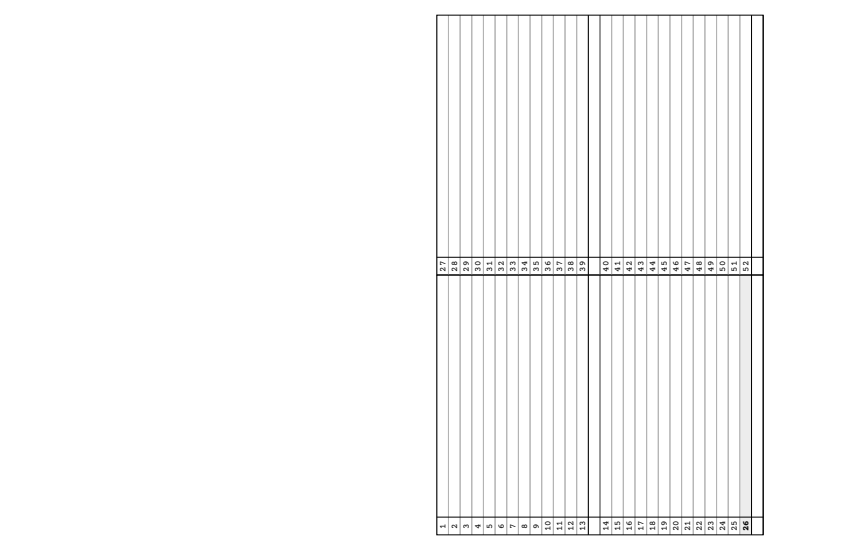
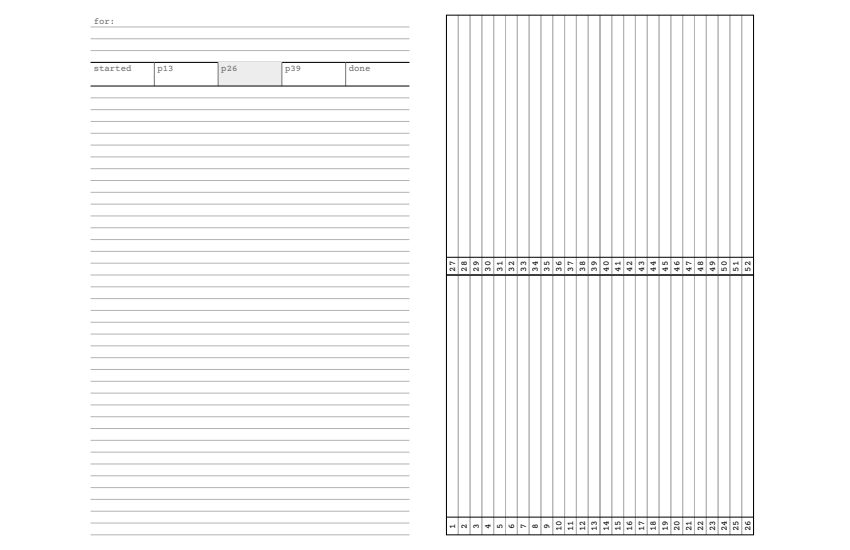
Plain books: book_purpose front cover, 3 mm index; all-caps headers, one header rule, gray idea labels
Claude-Session: https://claude.ai/code/session_01LdStaTTVFPMak8JKepHKkP

diff --git a/pocketjournal/indexpages.py b/pocketjournal/indexpages.py
@@ -3,40 +3,35 @@ with the book turned a quarter turn clockwise. Pages 1-26 are the lower column,
 27-52 the upper one; each page is a 3 mm strip with a narrow number zone at its
 start and open space after it for handwriting.
 
-    index        plain books: 26 pages per column plus a "goal post" strip
-                 after pages 13, 26, 39 and 52 (a date field)
+    index        plain books: 26 strips per column, a darker line at the
+                 quarter points (after pages 13, 26 and 39)
     page_index   monthly journal: 26 strips per column, each with a small gray
                  label saying what kind of page it is
 """
 from .draw import Draw
 from .page import PageBox, PageContext
 from .pagetypes import label_for, page_type
-from .yearpages import NUMBER_ZONE, _cap, _sideways_number
+from .yearpages import NUMBER_ZONE, _cap, _sideways_number, _text_base
 
 PAGES = 52
 PER_COLUMN = PAGES // 2
-GOAL_EVERY = 13              # a goal-post strip follows every 13th page
+QUARTER = PAGES // 4         # quarter points of the book: pages 13, 26, 39
 CENTER_PAGE = PAGES // 2     # the spread at the stitches
 LABEL_GRAY = 0.4
 
 
 def _column(d: Draw, s, left: float, pitch: float, y_a: float, height: float,
-            strips: list, labels: dict[int, str], mark_center: bool) -> None:
-    """One sideways column. `strips` holds a page number, or None for a goal
-    post; `labels` maps page numbers to their small gray label."""
+            pages: list, labels: dict[int, str], dark_after: frozenset = frozenset()) -> None:
+    """One sideways column: a 3 mm strip per page, with a small gray label in
+    its open space. The line after a page in `dark_after` is drawn darker."""
     y_b, open_y = y_a + height, y_a + NUMBER_ZONE
-    right = left + len(strips) * pitch
-    for k, page in enumerate(strips):
+    right = left + len(pages) * pitch
+    for k, page in enumerate(pages):
         x0, cx = left + k * pitch, left + (k + 0.5) * pitch
-        if page is None:                                     # goal post: a date field
-            for edge in (x0, x0 + pitch):
-                d.line(edge, y_a, edge, y_b, s.structure_weight)
-            continue
-        if mark_center and page == CENTER_PAGE:                # subtle mark: a faint tint
-            d.fill_rect(x0, y_a, pitch, height, s.tint_gray)
         d.line(x0, y_a, x0, y_b, s.rule_weight, s.rule_gray)
-        d.line(x0 + pitch, y_a, x0 + pitch, y_b, s.rule_weight, s.rule_gray)
-        _sideways_number(d, s, cx, y_a + NUMBER_ZONE / 2, str(page), bold=mark_center and page == CENTER_PAGE)
+        d.line(x0 + pitch, y_a, x0 + pitch, y_b, s.rule_weight,
+               s.separator_gray if page in dark_after else s.rule_gray)
+        _sideways_number(d, s, cx, y_a + NUMBER_ZONE / 2, str(page))
         if labels.get(page):
             d.text(cx + _cap(s.font_label) / 2, open_y + 1.5, labels[page],
                    s.font_label, gray=LABEL_GRAY, rotate=90)
@@ -44,25 +39,23 @@ def _column(d: Draw, s, left: float, pitch: float, y_a: float, height: float,
     d.rect(left, y_a, right - left, height, s.structure_weight)
 
 
+def _columns(d: Draw, box: PageBox, ctx: PageContext, labels: dict[int, str],
+             dark_after: frozenset = frozenset()) -> None:
+    """Both columns: 26 strips each at exactly one grid cell, centered."""
+    s, g = ctx.settings, box.grid_area()
+    pitch, height = g.cell, g.rows // 2 * g.cell
+    left = g.x0 + (g.x1 - g.x0 - PER_COLUMN * pitch) / 2
+    for c in range(2):
+        pages = list(range(c * PER_COLUMN + 1, (c + 1) * PER_COLUMN + 1))
+        _column(d, s, left, pitch, g.y0 + c * height, height, pages, labels, dark_after)
+
+
 @page_type("index")
 def index(d: Draw, box: PageBox, ctx: PageContext) -> None:
     """Plain books: a universal index (page number, topic) in two sideways
-    columns, with a date field after pages 13, 26, 39 and 52 for when that
-    point in the book was reached. Page 26, the center spread, is tinted.
-
-    The 28 strips per column share the content width, so the pitch is 2.96 mm:
-    as close to 3 mm as fits."""
-    s, g = ctx.settings, box.grid_area()
-    strips_per_column = PER_COLUMN + PER_COLUMN // GOAL_EVERY
-    pitch = (box.x1 - box.x0) / strips_per_column
-    height = g.rows // 2 * g.cell
-    for c in range(2):
-        strips = []
-        for page in range(c * PER_COLUMN + 1, (c + 1) * PER_COLUMN + 1):
-            strips.append(page)
-            if page % GOAL_EVERY == 0:
-                strips.append(None)
-        _column(d, s, box.x0, pitch, g.y0 + c * height, height, strips, {}, True)
+    columns of 26 strips at exactly 3 mm. The line after pages 13, 26 and 39 is
+    slightly darker so the quarter points of the book stay visible."""
+    _columns(d, box, ctx, {}, frozenset(range(QUARTER, PAGES, QUARTER)))
 
 
 @page_type("page_index")
@@ -74,8 +67,41 @@ def page_index(d: Draw, box: PageBox, ctx: PageContext) -> None:
         raise ValueError(f"the page index needs the book's {PAGES} pages")
     s, g = ctx.settings, box.grid_area()
     labels = {n: label_for(spec) for n, spec in enumerate(ctx.book_pages, 1)}
-    pitch, height = g.cell, g.rows // 2 * g.cell
-    left = g.x0 + (g.x1 - g.x0 - PER_COLUMN * pitch) / 2     # center the 26 strips
-    for c in range(2):
-        pages = list(range(c * PER_COLUMN + 1, (c + 1) * PER_COLUMN + 1))
-        _column(d, s, left, pitch, g.y0 + c * height, height, pages, labels, False)
+    _columns(d, box, ctx, labels)
+
+
+# Inside front cover of the plain books -----------------------------------------
+
+PURPOSE_LINES = 3            # writing lines under the "for:" label
+GOAL_POSTS = ("started", "p13", "p26", "p39", "done")   # dates; p26 is the center spread
+
+
+@page_type("book_purpose")
+def book_purpose(d: Draw, box: PageBox, ctx: PageContext) -> None:
+    """Plain books, inside front cover: what the book is for (a gray label and
+    a few writing lines), one compact row of date fields for the goal posts, and
+    light 3 mm lines for the rest. The p26 field is tinted: the center spread,
+    where the owner checks progress."""
+    s, g = ctx.settings, box.grid_area()
+    row = lambda n: g.y1 - n * g.cell
+
+    d.text(g.x0 + 0.8, _text_base(row(1)), "for:", s.font_label, gray=LABEL_GRAY)
+    top = 1 + PURPOSE_LINES                                  # rows used by the purpose block
+    for r in range(1, top + 1):
+        d.line(g.x0, row(r), g.x1, row(r), s.rule_weight, s.rule_gray)
+    d.line(g.x0, row(top), g.x1, row(top), s.structure_weight)
+
+    # goal posts: two rows, the label above a blank row for the date
+    fields_top, fields_bottom = row(top), row(top + 2)
+    w = (g.x1 - g.x0) / len(GOAL_POSTS)
+    for k, name in enumerate(GOAL_POSTS):
+        x0 = g.x0 + k * w
+        if name == "p26":
+            d.fill_rect(x0, fields_bottom, w, fields_top - fields_bottom, s.tint_gray)
+        if k:
+            d.line(x0, fields_bottom, x0, fields_top, s.rule_weight, s.separator_gray)
+        d.text(x0 + 0.8, _text_base(row(top + 1)), name, s.font_label, gray=LABEL_GRAY)
+    d.line(g.x0, fields_bottom, g.x1, fields_bottom, s.structure_weight)
+
+    for r in range(top + 3, g.rows + 1):
+        d.line(g.x0, row(r), g.x1, row(r), s.rule_weight, s.rule_gray)

diff --git a/tests/test_recipes.py b/tests/test_recipes.py
@@ -50,7 +50,7 @@ def test_shipped_recipes():
         book = build_book(load_recipe(name), S)
         assert len(book.pages) == 52
         assert book.page_numbers
-        assert book.cover[1].type == "index"
+        assert [p.type for p in book.cover] == ["book_purpose", "index"]
 
 
 def test_fill_after_fixed_pages():
@@ -190,18 +190,45 @@ def test_plain_index_layout(tmp_path, is_right):
     tol = 2
     assert ys.min() >= px(S.margin_top) - tol and ys.max() <= m.shape[0] - px(S.margin_bottom) + tol
     assert xs.min() >= px(box.x0) - tol and xs.max() <= px(box.x1) + tol
-    # 28 strips per column: count the vertical strip boundaries along a scan row
+    # 26 strips per column, exactly one grid cell wide: count the boundaries
+    g = box.grid_area()
     col = m[px(S.margin_top) + px(10)]                        # inside the upper column
     edges = np.count_nonzero(np.diff(col.astype(int)) == 1)
-    assert edges >= 29
+    assert edges >= 27
+    assert xs.max() - xs.min() <= px(26 * g.cell) + 6         # no wider than 26 cells
+
+
+def test_book_purpose_text_and_tint(tmp_path):
+    book = build_book(load_recipe("lined"), S)
+    build_folder(book, tmp_path / "out", S)
+    text = PdfReader(str(tmp_path / "out/cover.pdf")).pages[0].extract_text()
+    for word in ("for:", "started", "p13", "p26", "p39", "done"):
+        assert word in text
+
+
+@pytest.mark.parametrize("is_right", [True, False])
+def test_book_purpose_layout(tmp_path, is_right):
+    m = render(get_page_type("book_purpose"), is_right, tmp_path / "b.pdf")
+    box = PageBox(S, is_right)
+    ys, xs = np.where(m)
+    tol = 2
+    assert ys.min() >= px(S.margin_top) - tol and ys.max() <= m.shape[0] - px(S.margin_bottom) + tol
+    assert xs.min() >= px(box.x0) - tol and xs.max() <= px(box.x1) + tol
+    g = box.grid_area()
+    # the rest of the page is lined: a ruled row near the bottom spans the width
+    rows_with_lines = [r for r in range(m.shape[0] - px(g.y0) - px(3 * g.cell), m.shape[0] - px(g.y0) + 2)
+                       if m[r, px(g.x0) + 4: px(g.x1) - 4].all()]
+    assert rows_with_lines
 
 
 def test_plain_index_has_only_numbers(tmp_path):
-    book = build_book(load_recipe("lined"), S)
-    build_folder(book, tmp_path / "out", S)
-    words = PdfReader(str(tmp_path / "out/cover.pdf")).pages[0].extract_text().split()
-    assert sorted(w for w in words if w.isdigit()) == sorted(str(n) for n in range(1, 53))
-    assert all(w.isdigit() for w in words)                    # no other labels
+    pdf = tmp_path / "i.pdf"
+    d = Draw(pdf, S.page_w, S.page_h, S)
+    get_page_type("index")(d, PageBox(S, True), PageContext(1, 52, S))
+    d.next_page()
+    d.save()
+    words = PdfReader(str(pdf)).pages[0].extract_text().split()
+    assert sorted(words, key=int) == [str(n) for n in range(1, 53)]   # no other labels
 
 
 # ---- entry point --------------------------------------------------------------
@@ -421,13 +448,13 @@ def test_week_page_header_and_dates(tmp_path):
     pdf = tmp_path / "y.pdf"
     write_pages_pdf(book, pdf, S)
     text = PdfReader(str(pdf)).pages[5].extract_text()      # week 6: Jan 31 - Feb 6
-    assert "Jan / Feb" in text and "FEB" in text
+    assert "JAN / FEB" in text and "FEB" in text
     assert "WEEK" not in text and "2027" not in text        # number and month only
     assert text.split().count("6") >= 2                     # page number, and Feb 6
     for day in ("31", "1", "2", "3", "4", "5", "6"):
         assert day in text.split()
     one_month = PdfReader(str(pdf)).pages[27].extract_text()   # week 28: Jul 4 - 10
-    assert "July" in one_month
+    assert "JULY" in one_month
 
 
 def test_week_page_has_only_the_rail_style():
@@ -525,8 +552,8 @@ def test_partial_week_reflection_dates(tmp_path):
     pages = PdfReader(str(pdf)).pages
     first = next(i for i, p in enumerate(book.pages) if p.type == "week_reflection")
     last = max(i for i, p in enumerate(book.pages) if p.type == "week_reflection")
-    assert "Mar 1-6" in pages[first].extract_text()       # not Feb 28
-    assert "Mar 28-31" in pages[last].extract_text()      # not Apr 3
+    assert "MAR 1-6" in pages[first].extract_text()       # not Feb 28
+    assert "MAR 28-31" in pages[last].extract_text()      # not Apr 3
 
 
 def test_questions_and_idea_pages_draw(tmp_path):

diff --git a/pocketjournal/monthlypages.py b/pocketjournal/monthlypages.py
@@ -233,7 +233,7 @@ def daily(d: Draw, box: PageBox, ctx: PageContext) -> None:
 # =============================================================================
 
 def _span(ctx: PageContext) -> str:
-    """The week's dates inside the month, like "Mar 1-6" (a week can start in
+    """The week's dates inside the month, like "MAR 1-6" (a week can start in
     the month before or end in the month after; those days are not shown)."""
     last = calendar.monthrange(ctx.year, ctx.month)[1] if ctx.month else None
     first_day, last_day = ctx.date, ctx.date + dt.timedelta(days=6)
@@ -241,9 +241,9 @@ def _span(ctx: PageContext) -> str:
         first_day = max(first_day, dt.date(ctx.year, ctx.month, 1))
         last_day = min(last_day, dt.date(ctx.year, ctx.month, last))
     if first_day.month == last_day.month:
-        return f"{calendar.month_abbr[first_day.month]} {first_day.day}-{last_day.day}"
-    return (f"{calendar.month_abbr[first_day.month]} {first_day.day}-"
-            f"{calendar.month_abbr[last_day.month]} {last_day.day}")
+        return f"{MONTH_NAMES[first_day.month - 1]} {first_day.day}-{last_day.day}"
+    return (f"{MONTH_NAMES[first_day.month - 1]} {first_day.day}-"
+            f"{MONTH_NAMES[last_day.month - 1]} {last_day.day}")
 
 
 @page_type("week_reflection")
@@ -328,7 +328,7 @@ def idea(d: Draw, box: PageBox, ctx: PageContext) -> None:
     r = HEADER_ROWS
     d.line(g.x0, row(r), g.x1, row(r), s.structure_weight)
     for label, hint, lines in IDEA_PROMPTS:
-        d.text(g.x0 + 0.8, _text_base(row(r + 1)), label, s.font_label, bold=True)
+        d.text(g.x0 + 0.8, _text_base(row(r + 1)), label, s.font_label, gray=0.4)
         if hint:
             d.text(g.x1, _text_base(row(r + 1)), hint, s.font_label, gray=0.55, anchor="r")
         _rules(d, s, g, g.x0, g.x1, r + 1, r + 1 + lines)

diff --git a/pocketjournal/yearpages.py b/pocketjournal/yearpages.py
@@ -106,11 +106,11 @@ def week(d: Draw, box: PageBox, ctx: PageContext) -> None:
 
 
 def _month_label(days) -> str:
-    """"July", or "Jun / Jul" when the week spans two months."""
+    """"JULY", or "JUN / JUL" when the week spans two months."""
     months = list(dict.fromkeys(day.month for day in days))
     if len(months) == 1:
-        return calendar.month_name[months[0]]
-    return " / ".join(calendar.month_abbr[m] for m in months)
+        return calendar.month_name[months[0]].upper()
+    return " / ".join(MONTH_NAMES[m - 1] for m in months)
 
 
 def _rail_label(d: Draw, s, cx: float, top: float, day: dt.date) -> None:

diff --git a/pocketjournal/pagetypes.py b/pocketjournal/pagetypes.py
@@ -59,6 +59,9 @@ def lined(d: Draw, box: PageBox, ctx: PageContext) -> None:
         draw_header(d, box, ctx, str(ctx.params["label"]))
     for row in range(g.rows + 1):
         d.line(g.x0, g.y(row), g.x1, g.y(row), s.rule_weight, s.rule_gray)
+    if ctx.params.get("label"):                      # the header rule every headed page has
+        d.line(g.x0, g.y1 - HEADER_ROWS * g.cell, g.x1, g.y1 - HEADER_ROWS * g.cell,
+               s.structure_weight)
 
 
 @page_type("dots")

diff --git a/README.md b/README.md
@@ -35,7 +35,7 @@ Each book gets its own folder under `build/` with `print-first.pdf`,
 
 A recipe is a YAML file in `recipes/`. Its file name is the book's name on the
 command line. Nothing else needs code, as long as the page types exist
-(`blank`, `lined` (optional `params: {label: ...}` for the header), `dots`, `index`, the year journal's `week`, `year_goals`,
+(`blank`, `lined` (optional `params: {label: ...}` for the header), `dots`, `index`, `book_purpose`, the year journal's `week`, `year_goals`,
 `year_index`, and the monthly journal's `daily`, `week_reflection`,
 `month_review`, `questions`, `idea`, `monthly_tracker`, `page_index`; see `pocketjournal/pagetypes.py`).
 
@@ -143,7 +143,10 @@ turn clockwise.
 
 ## Plain books
 
-`lined` and `dots` end with the `index` page type: the same sideways two-column
-style as the year journal's covers, 26 pages per column plus a date field
-("goal post") after pages 13, 26, 39 and 52 for when you reached that point.
-Page 26, the center spread at the stitches, is tinted and its number bold.
+`lined` and `dots` split the job between the two covers, like the year journal.
+Inside front cover, `book_purpose`: a "for:" label over a few writing lines,
+one row of date fields for the goal posts (started, p13, p26, p39, done; p26,
+the center spread at the stitches, is tinted), and light 3 mm lines below.
+Inside back cover, `index`: the sideways two-column style of the year
+journal's covers, 26 strips per column at exactly 3 mm, with a slightly darker
+line after pages 13, 26 and 39.

diff --git a/CLAUDE.md b/CLAUDE.md
@@ -68,6 +68,10 @@ So the final page is **3.5" x 5.5" (88.9 x 139.7 mm)**, and on the sheet:
       12  MON OCT 26  |spine|  TUE OCT 27  13
 
   Page types draw their identity with `draw_header`; the book draws the number.
+- **Conventions across pages**: header identities are all caps ("JUNE",
+  "JUN / JUL", "WEEK 10 MAR 1-6", "SAT MAR 6"). Every page with a header gets
+  the same thin black rule under it. Prompt labels are small gray regular-weight
+  text, never bold black; bold is for page numbers and identities.
 - **Labels**: small labels that make a page self-explanatory are good
   ("Activity:", "hrs sleep", "times"). Run them in whichever direction saves
   space, including vertical. No labels on rows that are just writing lines in
